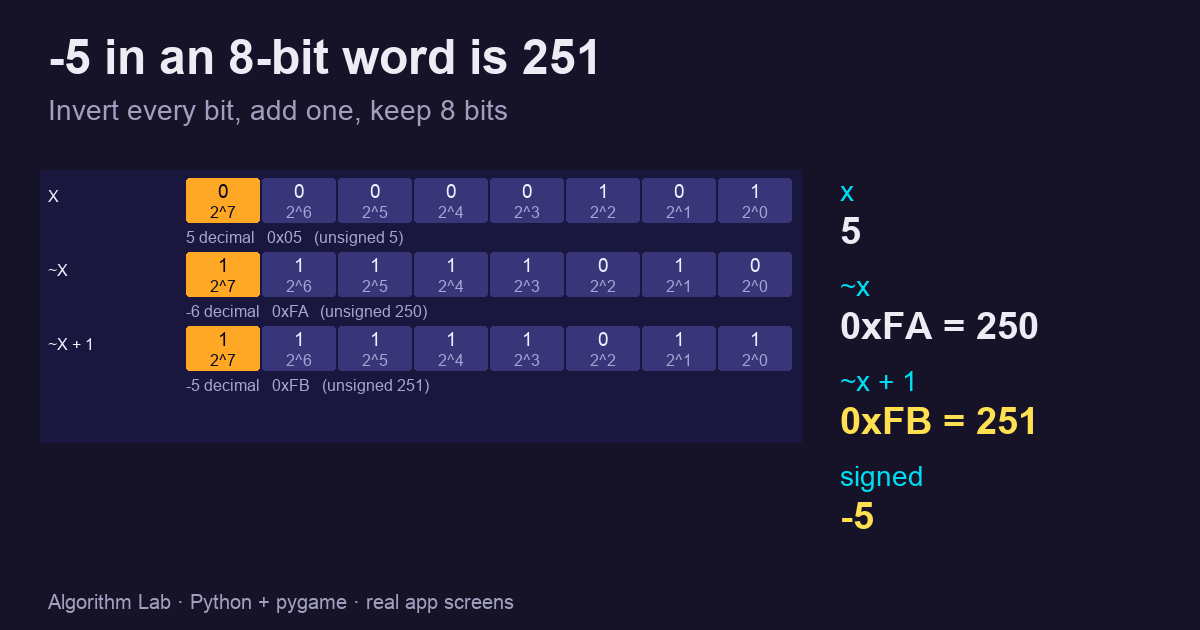
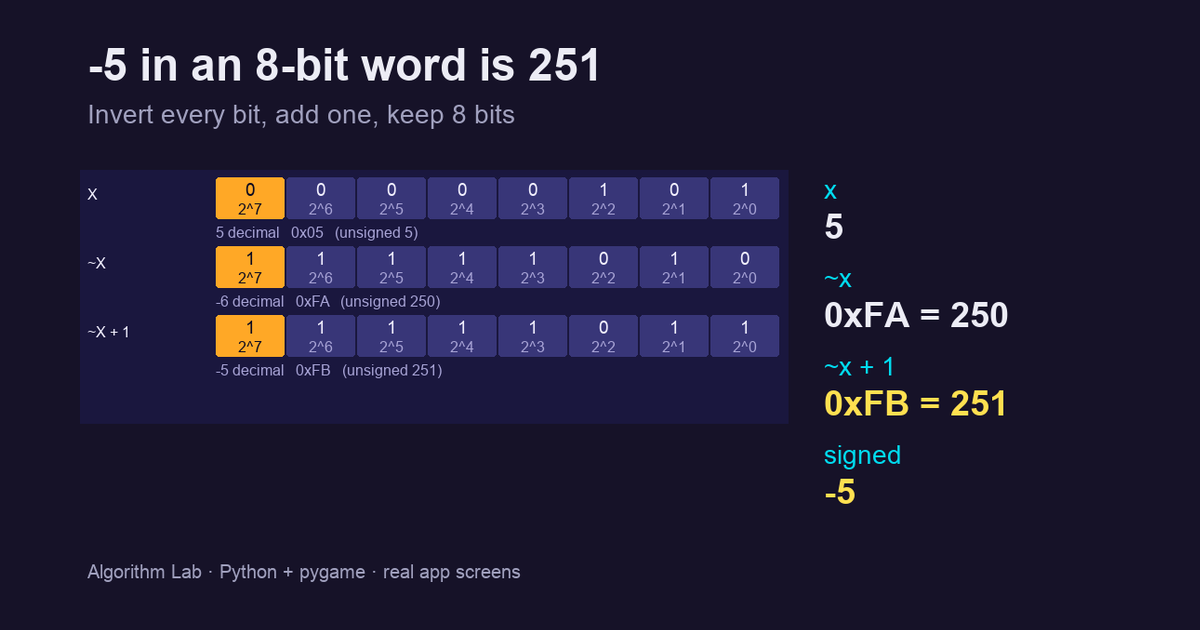
fix: keep 10/21-10/22 covers inside the 16:9 crop safe area

diff --git a/assets/code/algorithm_tips/charts.py b/assets/code/algorithm_tips/charts.py
@@ -12,6 +12,16 @@ plt.rcParams.update({"figure.facecolor": BG, "axes.facecolor": BG, "axes.edgecol
 def cover(fig, path):
     fig.savefig(path, dpi=100); plt.close(fig)
 
+def finish(fig, title, box):
+    """Body chart: tight layout. Cover (title given): keep everything 80 px from the sides and 48 px from
+    top/bottom, because the site shows covers as a 16:9 center crop. box = axes (left, right, bottom, top) in px."""
+    if not title:
+        fig.tight_layout(); return fig
+    fig.suptitle(title, fontsize=22, fontweight="bold", x=80 / 1200, ha="left", y=1 - 56 / 630, va="top")
+    l, r, b, t = box
+    fig.subplots_adjust(left=l / 1200, right=r / 1200, bottom=1 - b / 630, top=1 - t / 630)
+    return fig
+
 # 1. HNSW
 txt = open("hnsw_out.txt").read()
 blocks = re.findall(r"n=([\d,]+): exact ([\d.]+) ms/query.*?ef=40\s+recall@10 ([\d.]+)\s+([\d.]+) ms", txt, re.S)
@@ -48,13 +58,8 @@ def kv_fig(w, h, title=None):
         ax.annotate(f"{r[2] / r[1]:.1f}x", (r[0], r[2]), textcoords="offset points", xytext=(-6, 8), ha="right", color=B)
     ax.set_xlabel("new tokens generated"); ax.set_ylabel("seconds"); ax.set_xticks(x); ax.legend(loc="upper left")
     ax.set_title("Qwen2.5-0.5B-Instruct, greedy, CPU float32: identical output tokens in every run", color=MUTED, fontsize=12)
-    if title:  # cover: keep everything 80 px from the sides and 48 px from top/bottom (the site crops 16:9)
-        fig.suptitle(title, fontsize=22, fontweight="bold", x=80 / 1200, ha="left", y=1 - 56 / 630, va="top")
-        ax.margins(x=0.08)
-        fig.subplots_adjust(left=150 / 1200, right=1105 / 1200, bottom=1 - 515 / 630, top=1 - 150 / 630)
-    else:
-        fig.tight_layout()
-    return fig
+    if title: ax.margins(x=0.08)
+    return finish(fig, title, (150, 1105, 515, 150))
 cover(kv_fig(11, 5), "img/kv_chart.png")
 cover(kv_fig(12, 6.3, "KV cache: the same 256 tokens, 7.5 s instead of 34 s"), "img/kv_cover.png")
 
@@ -72,9 +77,7 @@ def dec_fig(w, h, title=None):
                     arrowprops=dict(arrowstyle="->", color=color))
     ax.set_xlabel("token"); ax.set_ylabel("cumulative log-probability"); ax.legend(loc="lower left")
     ax.set_title('"The main difference between a list and a tuple in Python is ..."', color=MUTED, fontsize=12)
-    if title: fig.suptitle(title, fontsize=22, fontweight="bold", x=0.04, ha="left", y=0.97)
-    fig.tight_layout(rect=(0, 0, 1, 0.9 if title else 1))
-    return fig
+    return finish(fig, title, (165, 1100, 515, 150))
 cover(dec_fig(11, 5), "img/decoding_chart.png")
 cover(dec_fig(12, 6.3, "Greedy picked the likelier next word, and lost overall"), "img/decoding_cover.png")
 
@@ -86,7 +89,8 @@ def fmt_fig(w, h, title=None):
     cols = ("#e06c9f", "#4fb3bf", "#6b6f8a")
     for row, name in enumerate(("fp32", "fp16", "bf16")):
         y = 2.6 - row * 1.1
-        ax.text(0, y + 0.35, name, fontsize=18, fontweight="bold", va="center")
+        ax.text(2.3, y + 0.35, name, fontsize=18, fontweight="bold", va="center", ha="right") if title else \
+            ax.text(0, y + 0.35, name, fontsize=18, fontweight="bold", va="center")
         x = 2.6
         for part, col in zip(lay[name].strip().split(" "), cols):
             for bit in part:
@@ -96,9 +100,7 @@ def fmt_fig(w, h, title=None):
         ax.text(x + 0.3, y + 0.35, f"sum of 0.001 x 10,000 = {float(sums[name]):g}", va="center", fontsize=13, color=FG)
     ax.text(2.6, -0.3, "pink: sign   teal: exponent (range)   grey: fraction (precision)       each row stores 0.1",
             fontsize=12, color=MUTED)
-    if title: fig.suptitle(title, fontsize=22, fontweight="bold", x=0.04, ha="left", y=0.96)
-    fig.tight_layout(rect=(0, 0, 1, 0.9 if title else 1))
-    return fig
+    return finish(fig, title, (140, 780, 560, 120))
 cover(fmt_fig(13, 4.2), "img/formats_chart.png")
 cover(fmt_fig(12, 6.3, "fp32, fp16, bf16: where the 16 bits go"), "img/formats_cover.png")
 print(ns, ex, hn, rc, walk, rows, lay, sums, sep="\n")
